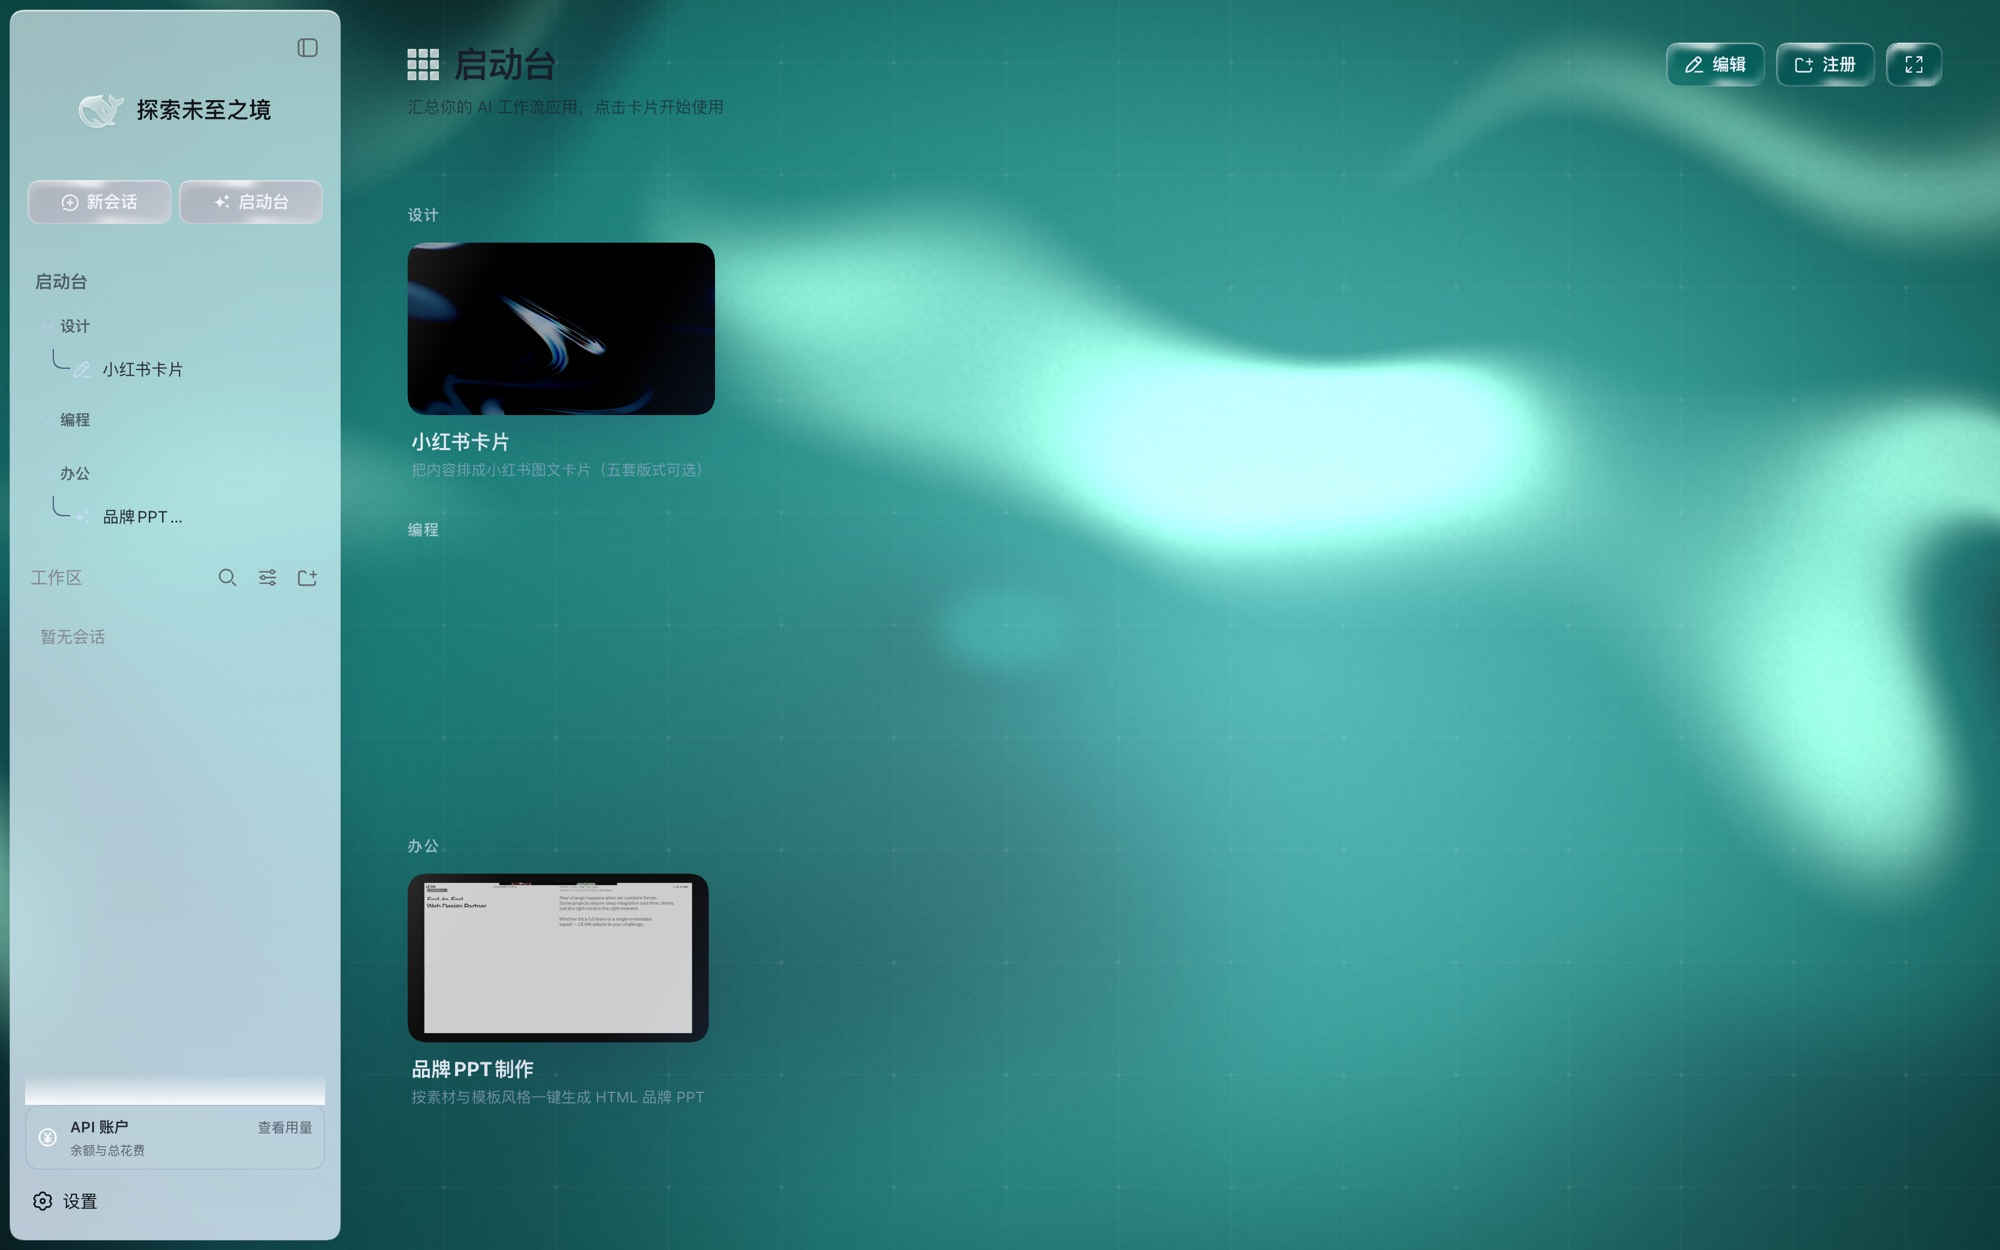
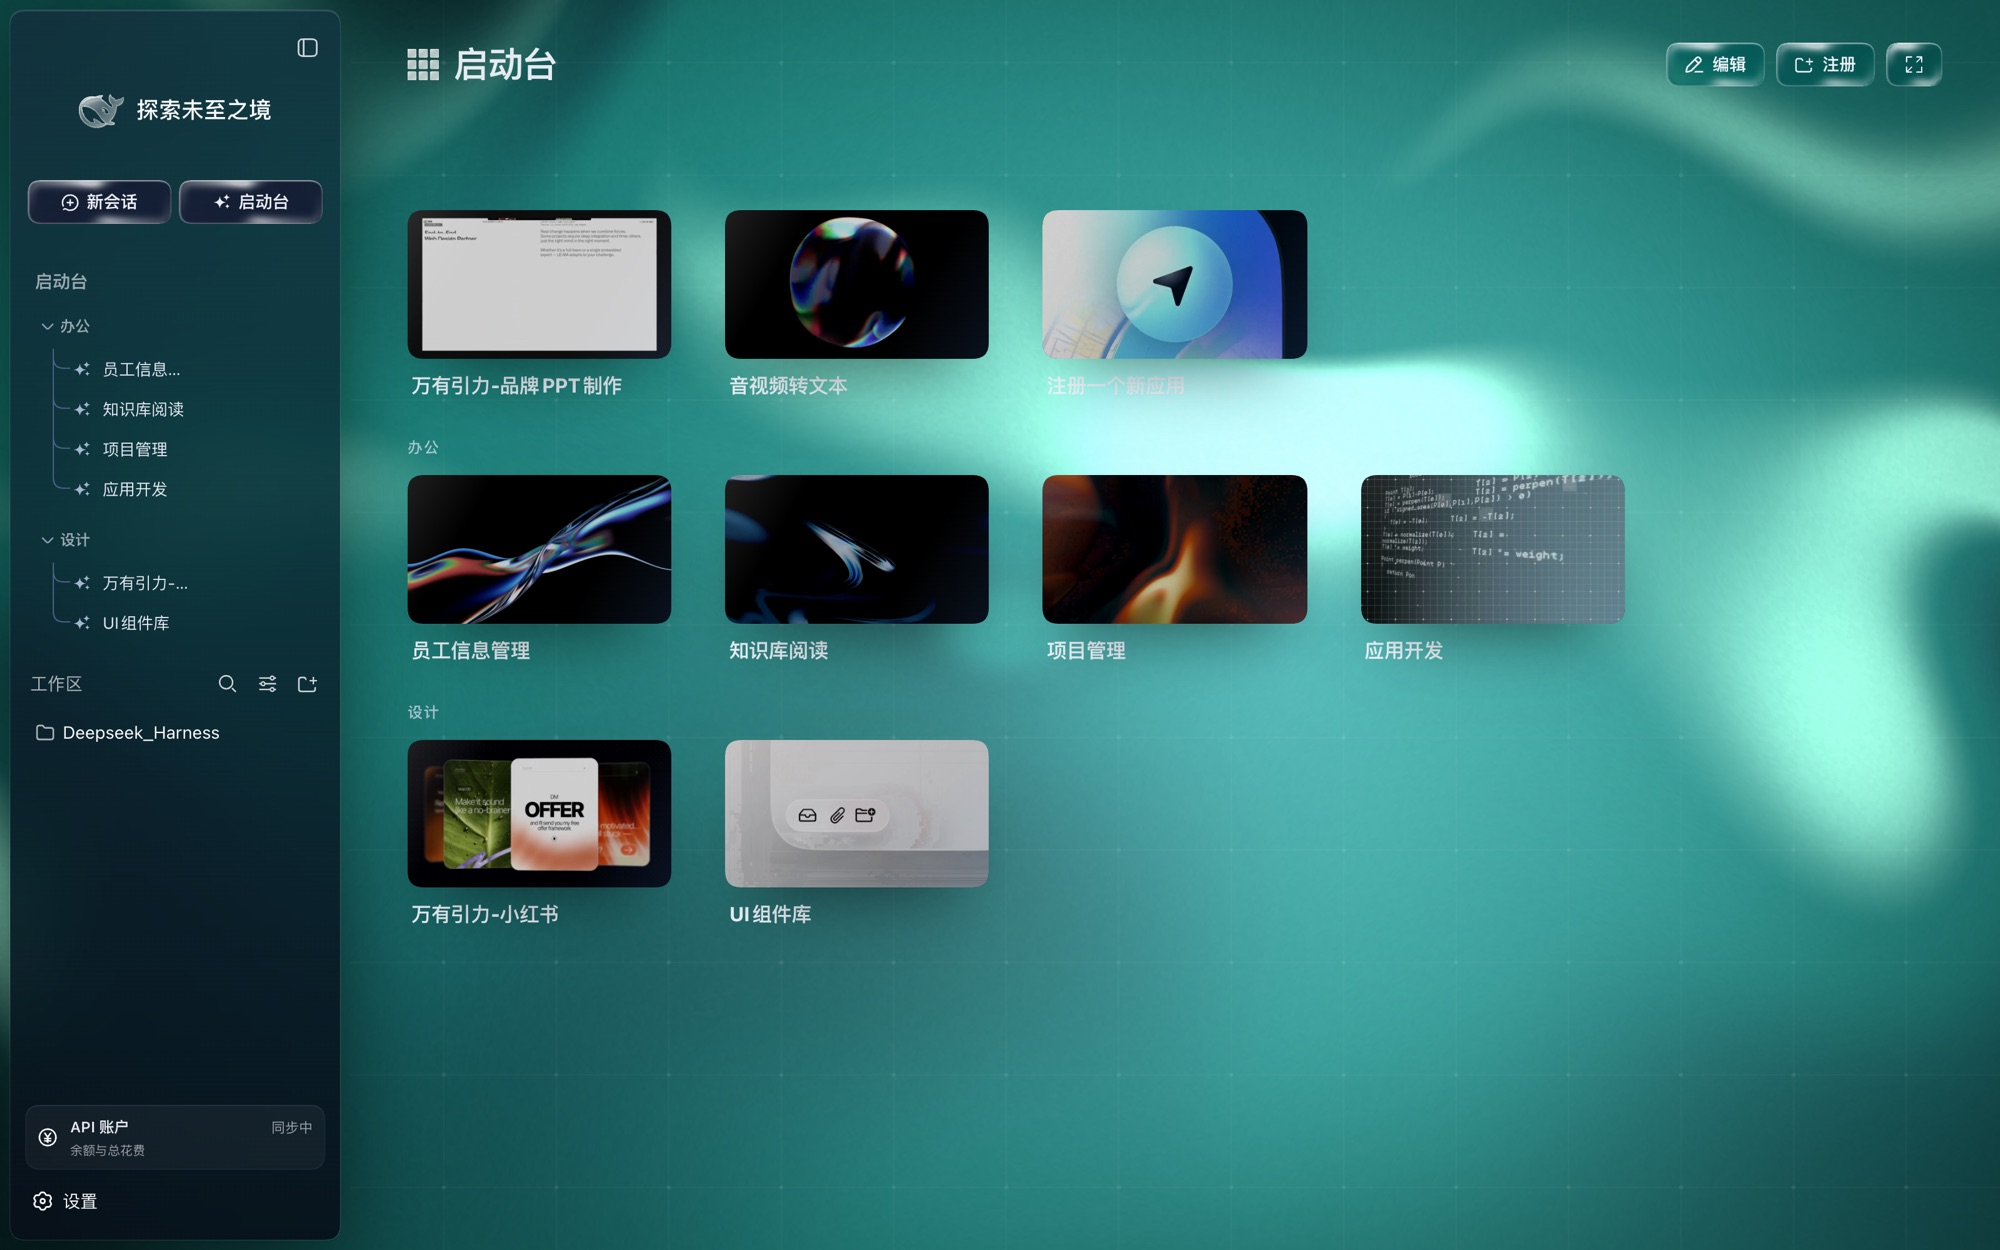
Show the author's own launcher, not a bare install
Every frame in the gallery came from a fresh profile, which is honest about
what a clean install renders and a poor picture of what the UI is for: two
apps in the launcher, an empty sidebar, nothing in the tree.

All nine now come from the author's working setup — nine apps across two
categories, the category tree expanded, the same app the README shows.

That trades one signal away, so the page says it out loud. The apps in those
cards are separate plugins and are not among the six packages; the copy that
promised a clean install now says every screenshot here comes from the
author's own setup, and points at the boundary section that already lists
what is not shipped.

Captured at 1600x1000 @2x from `dsh --profile web` on the real profile,
resized to the 2000px the other frames use (2.7 MB for nine).

diff --git a/index.html b/index.html
@@ -459,7 +459,7 @@
 <main>
   <section class="hero">
     <h1 data-i18n="hero.h1">A glass shell for DeepSeek Harness</h1>
-    <p class="sub" data-i18n="hero.sub">Foldable sidebars, a launcher with a data island, and nine wallpapers underneath — installable as six packages. The frame below is the real launcher; the field around it is the same wallpaper, running live.</p>
+    <p class="sub" data-i18n="hero.sub">Foldable sidebars, a launcher with a data island, and nine wallpapers underneath — installable as six packages. The frame below is a real capture of the author's own launcher; the field around it is the same wallpaper, running live.</p>
 
     <div class="frame" id="frame">
       <div class="bar">
@@ -492,7 +492,7 @@
   <section class="band" id="inside">
     <div class="wrap">
       <h2 data-i18n="inside.title">Three pieces of interface</h2>
-      <p class="lead" data-i18n="inside.lead">Everything below is in the packages. Screenshots come from this distribution — the second one from a fresh profile, so the launcher shows only what a clean install has.</p>
+      <p class="lead" data-i18n="inside.lead">Everything in these three cards is in the packages. Every screenshot on this page comes from the author's own setup — the apps in the launcher and the categories in the sidebar are his, and each app is a separate plugin.</p>
 
       <div class="cards">
         <article class="card">
@@ -699,12 +699,12 @@ const COPY = {
     "nav.readme": "README",
     "nav.install": "Install",
     "hero.h1": "A glass shell for DeepSeek Harness",
-    "hero.sub": "Foldable sidebars, a launcher with a data island, and nine wallpapers underneath — installable as six packages. The frame below is the real launcher; the field around it is the same wallpaper, running live.",
+    "hero.sub": "Foldable sidebars, a launcher with a data island, and nine wallpapers underneath — installable as six packages. The frame below is a real capture of the author's own launcher; the field around it is the same wallpaper, running live.",
     "hero.hint": "← → to switch, or click a frame below",
     "kind.fluid": "procedural fluid · WebGL, drawn locally",
     "kind.video": "nature loop · 720p video, needs internet",
     "inside.title": "Three pieces of interface",
-    "inside.lead": "Everything below is in the packages. The gallery above comes from a clean install of them — a fresh profile with nothing added — while these three are from a working setup, so the sidebar holds sessions and the launcher holds apps.",
+    "inside.lead": "Everything in these three cards is in the packages. Every screenshot on this page comes from the author's own setup — the apps in the launcher and the categories in the sidebar are his, and each app is a separate plugin.",
     "card1.title": "Glass three columns",
     "card1.body": "Brand rail, left sidebar and right sidebar all sit on the same glass tokens: translucent gradient, backdrop blur, hairline edge. The left folds to an icon rail, the right folds away entirely.",
     "card2.title": "Wallpaper picker",
@@ -736,12 +736,12 @@ const COPY = {
     "nav.readme": "说明文档",
     "nav.install": "安装",
     "hero.h1": "deepseek-harness 的三栏玻璃外壳",
-    "hero.sub": "可折叠的侧栏、带数据仪表的启动台，以及底下的九张壁纸 —— 以六个包安装。中间这个窗口是真的启动台；四周是同一张壁纸，实时在跑。",
+    "hero.sub": "可折叠的侧栏、带数据仪表的启动台，以及底下的九张壁纸 —— 以六个包安装。中间这一帧是作者自己环境的真实截屏；四周是同一张壁纸，实时在跑。",
     "hero.hint": "← → 切换，或点下面的缩略图",
     "kind.fluid": "程序化流体 · 页面内 WebGL 绘制",
     "kind.video": "动态自然风光 · 720p 视频，需要联网",
     "inside.title": "三块界面",
-    "inside.lead": "以下每一项都在包里。上面的画廊取自这套包的干净安装 —— 一个全新、什么都没加的 profile，用来照出干净安装的样子；下面三张则来自日常使用的环境，所以侧栏里有会话、启动台里有应用。",
+    "inside.lead": "这三张卡里的东西都在包里。本页所有截图都取自作者自己的环境 —— 启动台里的应用、侧栏里的类目都是他自己的；那些应用各自是独立的插件。",
     "card1.title": "三栏玻璃外壳",
     "card1.body": "品牌竖栏、左侧栏、右侧栏共用同一套玻璃令牌：半透明渐变、背景模糊、发丝描边。左栏可收成图标轨道，右栏可整列折叠。",
     "card2.title": "壁纸选择器",
